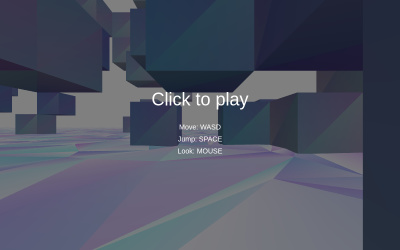
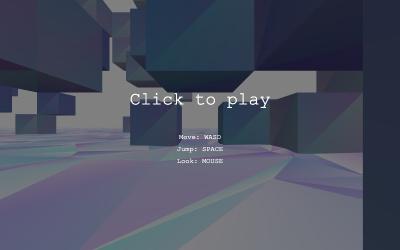
Examples: Clean up. (#21808)

Changed region(s): [[0.33, 0.364, 0.69, 0.448], [0.42, 0.476, 0.57, 0.672]]

diff --git a/examples/misc_controls_pointerlock.html b/examples/misc_controls_pointerlock.html
@@ -17,43 +17,29 @@
 				width: 100%;
 				height: 100%;
 
-				display: -webkit-box;
-				display: -moz-box;
-				display: box;
+				display: flex;
+				flex-direction: column;
+				justify-content: center;
+				align-items: center;
 
-				-webkit-box-orient: horizontal;
-				-moz-box-orient: horizontal;
-				box-orient: horizontal;
-
-				-webkit-box-pack: center;
-				-moz-box-pack: center;
-				box-pack: center;
-
-				-webkit-box-align: center;
-				-moz-box-align: center;
-				box-align: center;
-
-				color: #ffffff;
 				text-align: center;
-				font-family: Arial;
 				font-size: 14px;
-				line-height: 24px;
-
 				cursor: pointer;
 			}
 		</style>
 	</head>
 	<body>
 		<div id="blocker">
-
 			<div id="instructions">
-				<span style="font-size:36px">Click to play</span>
-				<br /><br />
-				Move: WASD<br/>
-				Jump: SPACE<br/>
-				Look: MOUSE
+				<p style="font-size:36px">
+					Click to play
+				</p>
+				<p>
+					Move: WASD<br/>
+					Jump: SPACE<br/>
+					Look: MOUSE
+				</p>
 			</div>
-
 		</div>
 
 		<script type="module">
